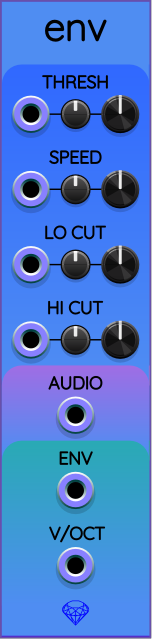
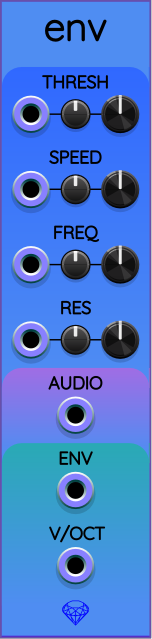
Env: Use cytomic bandpass as the pitch pre-filter.
Experimenting, I found that Gravy made a good pre-filter
for Env's pitch detector. So instead of using the simple
lo/hi-cut pair of filters for bandpass, use the same Cytomic
filter as I use in Gravy. Use bandpass mode for now, and
expose FREQ and RES control groups just like Gravy does.
FREQ helps center on the expected detected pitches, and
RES helps squeeze the frequency response near that center
frequency.

diff --git a/src/env_pitch_detect.hpp b/src/env_pitch_detect.hpp
@@ -3,12 +3,11 @@
 #include <cmath>
 #include <vector>
 #include "sapphire_engine.hpp"
+#include "sauce_engine.hpp"
 
 namespace Sapphire
 {
     const int NO_PITCH_VOLTS = -10;    // V/OCT = -10V indicates no pitch detected at all
-    const float EnvCutFreqMin = 15;
-    const float EnvCutFreqMax = 25000;
 
     template <typename value_t>
     struct EnvPitchChannelInfo
@@ -21,9 +20,8 @@ namespace Sapphire
         value_t filteredWaveLength;
         bool first_thresh;
 
-        using filter_t = StagedFilter<value_t, 1>;
-        filter_t loCutFilter;
-        filter_t hiCutFilter;
+        using filter_t = Gravy::SingleChannelGravyEngine<value_t>;
+        filter_t pitchFilter;
 
         value_t envAttack = 0;
         value_t envDecay = 0;
@@ -44,21 +42,8 @@ namespace Sapphire
             rawWaveLengthDescend = 0;
             filteredWaveLength = 0;
             first_thresh = true;
-
-            // Reset all filters in case they went non-finite.
-            loCutFilter.Reset();
-            hiCutFilter.Reset();
-
+            pitchFilter.initialize();
             envelope = 0;
-        }
-
-        value_t bandpass(value_t input, value_t loFreq, value_t hiFreq, int sampleRateHz)
-        {
-            loCutFilter.SetCutoffFrequency(loFreq);
-            value_t locut = loCutFilter.UpdateHiPass(input, sampleRateHz);
-
-            hiCutFilter.SetCutoffFrequency(hiFreq);
-            return hiCutFilter.UpdateLoPass(locut, sampleRateHz);
         }
 
         value_t pitch(int sampleRateHz, value_t centerFrequencyHz) const
@@ -99,8 +84,6 @@ namespace Sapphire
 
         int currentSampleRate = 0;
         value_t centerFrequencyHz = 261.6255653005986;        // note C4 = 440 / (2**(3/4))
-        value_t loCutFrequency = EnvCutFreqMin;
-        value_t hiCutFrequency = EnvCutFreqMax;
         int recoveryCountdown = 0;         // how many samples remain before trying to filter again (CPU usage limiter)
         const int smallestWavelength = 16;
         value_t thresh = 0;     // amplitude to reach before considering pitch to be significant
@@ -148,9 +131,8 @@ namespace Sapphire
 
             outEnvelope = q.updateAmplitude(input, currentSampleRate);
 
-            // Feed through a bandpass filter that rejects DC and other frequencies below 20 Hz,
-            // and also rejects very high frequencies.
-            value_t signal = q.bandpass(input, loCutFrequency, hiCutFrequency, currentSampleRate);
+            FilterResult<float> result = q.pitchFilter.process(currentSampleRate, input);
+            value_t signal = result.bandpass;
 
             // Make sure we have a normal numeric value for our signal.
             if (!std::isfinite(signal))
@@ -225,14 +207,16 @@ namespace Sapphire
             speed = 0.9999 - (qs*0.0999 / 128);
         }
 
-        void setLoCut(value_t loCutHz)
+        void setFrequency(value_t knob = 0)
         {
-            loCutFrequency = std::clamp(loCutHz, static_cast<value_t>(EnvCutFreqMin), static_cast<value_t>(EnvCutFreqMax));
+            for (info_t& q : info)
+                q.pitchFilter.setFrequency(knob);
         }
 
-        void setHiCut(value_t hiCutHz)
+        void setResonance(value_t knob = 0)
         {
-            hiCutFrequency = std::clamp(hiCutHz, static_cast<value_t>(EnvCutFreqMin), static_cast<value_t>(EnvCutFreqMax));
+            for (info_t& q : info)
+                q.pitchFilter.setResonance(knob);
         }
 
         int process(

diff --git a/src/env_vcv.cpp b/src/env_vcv.cpp
@@ -16,10 +16,10 @@ namespace Sapphire
             THRESHOLD_ATTEN,
             SPEED_PARAM,
             SPEED_ATTEN,
-            LOCUT_PARAM,
-            LOCUT_ATTEN,
-            HICUT_PARAM,
-            HICUT_ATTEN,
+            FREQ_PARAM,
+            FREQ_ATTEN,
+            RES_PARAM,
+            RES_ATTEN,
             PARAMS_LEN
         };
 
@@ -28,8 +28,8 @@ namespace Sapphire
             AUDIO_INPUT,
             THRESHOLD_CV_INPUT,
             SPEED_CV_INPUT,
-            LOCUT_CV_INPUT,
-            HICUT_CV_INPUT,
+            FREQ_CV_INPUT,
+            RES_CV_INPUT,
             INPUTS_LEN
         };
 
@@ -57,8 +57,8 @@ namespace Sapphire
                 config(PARAMS_LEN, INPUTS_LEN, OUTPUTS_LEN, LIGHTS_LEN);
                 configControlGroup("Threshold", THRESHOLD_PARAM, THRESHOLD_ATTEN, THRESHOLD_CV_INPUT, -96, 0, -24, " dB");
                 configControlGroup("Speed", SPEED_PARAM, SPEED_ATTEN, SPEED_CV_INPUT, 0, 1, 0.5);
-                configControlGroup("Lo Cut", LOCUT_PARAM, LOCUT_ATTEN, LOCUT_CV_INPUT, EnvCutFreqMin, EnvCutFreqMax, EnvCutFreqMin);
-                configControlGroup("Hi Cut", HICUT_PARAM, HICUT_ATTEN, HICUT_CV_INPUT, EnvCutFreqMin, EnvCutFreqMax, EnvCutFreqMax);
+                configControlGroup("Frequency", FREQ_PARAM,  FREQ_ATTEN,  FREQ_CV_INPUT,  -Gravy::OctaveRange, +Gravy::OctaveRange, Gravy::DefaultFrequencyKnob);
+                configControlGroup("Resonance", RES_PARAM,   RES_ATTEN,   RES_CV_INPUT,   0, 1, Gravy::DefaultResonanceKnob);
                 configInput(AUDIO_INPUT, "Audio");
                 configOutput(ENVELOPE_OUTPUT, "Envelope");
                 configOutput(PITCH_OUTPUT, "Pitch V/OCT");
@@ -100,11 +100,11 @@ namespace Sapphire
                     float speed = getControlValue(SPEED_PARAM, SPEED_ATTEN, SPEED_CV_INPUT, 0, 1);
                     detector.setSpeed(speed);
 
-                    float locut = getControlValue(LOCUT_PARAM, LOCUT_ATTEN, LOCUT_CV_INPUT, EnvCutFreqMin, EnvCutFreqMax);
-                    detector.setLoCut(locut);
+                    float freq = getControlValueVoltPerOctave(FREQ_PARAM, FREQ_ATTEN, FREQ_CV_INPUT, -Gravy::OctaveRange, +Gravy::OctaveRange);
+                    detector.setFrequency(freq);
 
-                    float hicut = getControlValue(HICUT_PARAM, HICUT_ATTEN, HICUT_CV_INPUT, EnvCutFreqMin, EnvCutFreqMax);
-                    detector.setHiCut(hicut);
+                    float res = getControlValue(RES_PARAM, RES_ATTEN, RES_CV_INPUT, 0, 1);
+                    detector.setResonance(res);
 
                     detector.process(nc, args.sampleRate, inFrame, outEnvelope, outPitchVoct);
 
@@ -135,8 +135,8 @@ namespace Sapphire
                 addSapphireOutput(PITCH_OUTPUT, "pitch_output");
                 addSapphireFlatControlGroup("thresh", THRESHOLD_PARAM, THRESHOLD_ATTEN, THRESHOLD_CV_INPUT);
                 addSapphireFlatControlGroup("speed", SPEED_PARAM, SPEED_ATTEN, SPEED_CV_INPUT);
-                addSapphireFlatControlGroup("locut", LOCUT_PARAM, LOCUT_ATTEN, LOCUT_CV_INPUT);
-                addSapphireFlatControlGroup("hicut", HICUT_PARAM, HICUT_ATTEN, HICUT_CV_INPUT);
+                addSapphireFlatControlGroup("frequency", FREQ_PARAM, FREQ_ATTEN, FREQ_CV_INPUT);
+                addSapphireFlatControlGroup("resonance", RES_PARAM, RES_ATTEN, RES_CV_INPUT);
             }
         };
     }

diff --git a/src/sauce_engine.hpp b/src/sauce_engine.hpp
@@ -5,17 +5,18 @@ namespace Sapphire
 {
     namespace Gravy
     {
+        template <typename value_t>
         class SingleChannelGravyEngine
         {
         private:
-            float freqKnob  = DefaultFrequencyKnob;
-            float resKnob   = DefaultResonanceKnob;
-            float mixKnob   = DefaultMixKnob;
-            float gainKnob  = DefaultGainKnob;
+            value_t freqKnob  = DefaultFrequencyKnob;
+            value_t resKnob   = DefaultResonanceKnob;
+            value_t mixKnob   = DefaultMixKnob;
+            value_t gainKnob  = DefaultGainKnob;
 
-            StateVariableFilter<float> filter;
+            StateVariableFilter<value_t> filter;
 
-            float setKnob(float &v, float k, int lo = 0, int hi = 1)
+            float setKnob(value_t &v, value_t k, int lo = 0, int hi = 1)
             {
                 if (std::isfinite(k))
                 {
@@ -35,33 +36,33 @@ namespace Sapphire
                 filter.initialize();
             }
 
-            float setFrequency(float k)
+            value_t setFrequency(value_t k)
             {
                 return setKnob(freqKnob, k, -OctaveRange, +OctaveRange);
             }
 
-            float setResonance(float k)
+            value_t setResonance(value_t k)
             {
                 return setKnob(resKnob, k);
             }
 
-            float setMix(float k)
+            value_t setMix(value_t k)
             {
                 return setKnob(mixKnob, k);
             }
 
-            float setGain(float k)
+            value_t setGain(value_t k)
             {
                 return setKnob(gainKnob, k);
             }
 
-            FilterResult<float> process(float sampleRateHz, const float inSample)
+            FilterResult<value_t> process(value_t sampleRateHz, const value_t inSample)
             {
-                float cornerFreqHz = std::pow(2.0f, freqKnob) * DefaultFrequencyHz;
-                float gain  = Cube(gainKnob * 2);    // 0.5, the default value, should have unity gain.
-                float mix = 1-Cube(1-mixKnob);
+                value_t cornerFreqHz = std::pow(static_cast<value_t>(2), freqKnob) * DefaultFrequencyHz;
+                value_t gain  = Cube(gainKnob * 2);    // 0.5, the default value, should have unity gain.
+                value_t mix = 1-Cube(1-mixKnob);
 
-                FilterResult<float> result = filter.process(sampleRateHz, cornerFreqHz, resKnob, inSample);
+                FilterResult<value_t> result = filter.process(sampleRateHz, cornerFreqHz, resKnob, inSample);
                 result.lowpass  = gain * (mix*result.lowpass  + (1-mix)*inSample);
                 result.bandpass = gain * (mix*result.bandpass + (1-mix)*inSample);
                 result.highpass = gain * (mix*result.highpass + (1-mix)*inSample);

diff --git a/util/make_sapphire_svg.py b/util/make_sapphire_svg.py
@@ -1871,8 +1871,8 @@ def GenerateEnvPitchPanel(cdict:Dict[str, ControlLayer], target:Target) -> int:
     yFence = FencePost(23.0, 114.0, 7)
     yThresh      = yFence.value(0)
     ySpeed       = yFence.value(1)
-    yLoCut       = yFence.value(2)
-    yHiCut       = yFence.value(3)
+    yFreq        = yFence.value(2)
+    yRes         = yFence.value(3)
     yPolyAudioIn = yFence.value(4)
     yEnvelopeOut = yFence.value(5)
     yPitchOut    = yFence.value(6)
@@ -1883,11 +1883,11 @@ def GenerateEnvPitchPanel(cdict:Dict[str, ControlLayer], target:Target) -> int:
     with Font(SAPPHIRE_FONT_FILENAME) as font:
         pl.append(BorderRect(PANEL_WIDTH, SAPPHIRE_PANEL_COLOR, SAPPHIRE_BORDER_COLOR))
 
-        defs.append(Gradient(yThresh-artSpaceAboveKnob, yHiCut+artSpaceBelowKnob, SAPPHIRE_AZURE_COLOR, SAPPHIRE_PANEL_COLOR, 'gradient_blue'))
+        defs.append(Gradient(yThresh-artSpaceAboveKnob, yRes+artSpaceBelowKnob, SAPPHIRE_AZURE_COLOR, SAPPHIRE_PANEL_COLOR, 'gradient_blue'))
         defs.append(Gradient(yPolyAudioIn-artSpaceAboveKnob, yPolyAudioIn+artSpaceBelowKnob, SAPPHIRE_MAGENTA_COLOR, SAPPHIRE_PANEL_COLOR, 'gradient_purple'))
         defs.append(Gradient(yEnvelopeOut-artSpaceAboveKnob, yPitchOut+artSpaceBelowKnob, SAPPHIRE_TEAL_COLOR, SAPPHIRE_PANEL_COLOR, 'gradient_out'))
 
-        pl.append(ControlGroupArt(name, 'control_art', panel, yThresh-artSpaceAboveKnob, yHiCut+artSpaceBelowKnob, 'gradient_blue'))
+        pl.append(ControlGroupArt(name, 'control_art', panel, yThresh-artSpaceAboveKnob, yRes+artSpaceBelowKnob, 'gradient_blue'))
         pl.append(ControlGroupArt(name, 'audio_art', panel, yPolyAudioIn-artSpaceAboveKnob, yPolyAudioIn+artSpaceBelowKnob, 'gradient_purple'))
         pl.append(ControlGroupArt(name, 'out_art', panel, yEnvelopeOut-artSpaceAboveKnob, yPitchOut+artSpaceBelowKnob, 'gradient_out'))
 
@@ -1909,11 +1909,11 @@ def GenerateEnvPitchPanel(cdict:Dict[str, ControlLayer], target:Target) -> int:
         AddFlatControlGroup(pl, controls, xmid, ySpeed, 'speed')
         pl.append(CenteredControlTextPath(font, 'SPEED', xmid, ySpeed - dyText))
 
-        AddFlatControlGroup(pl, controls, xmid, yLoCut, 'locut')
-        pl.append(CenteredControlTextPath(font, 'LO CUT', xmid, yLoCut - dyText))
+        AddFlatControlGroup(pl, controls, xmid, yFreq, 'frequency')
+        pl.append(CenteredControlTextPath(font, 'FREQ', xmid, yFreq - dyText))
 
-        AddFlatControlGroup(pl, controls, xmid, yHiCut, 'hicut')
-        pl.append(CenteredControlTextPath(font, 'HI CUT', xmid, yHiCut - dyText))
+        AddFlatControlGroup(pl, controls, xmid, yRes, 'resonance')
+        pl.append(CenteredControlTextPath(font, 'RES', xmid, yRes - dyText))
     return Save(panel, svgFileName)
 
 

diff --git a/src/sapphire_panel.cpp b/src/sapphire_panel.cpp
@@ -73,13 +73,13 @@ namespace Sapphire
             {"_panel",                 {  30.480,  128.500}},
             {"audio_input",            {  15.240,   83.667}},
             {"envelope_output",        {  15.240,   98.833}},
-            {"hicut_atten",            {  15.240,   68.500}},
-            {"hicut_cv",               {   6.240,   68.500}},
-            {"hicut_knob",             {  24.240,   68.500}},
-            {"locut_atten",            {  15.240,   53.333}},
-            {"locut_cv",               {   6.240,   53.333}},
-            {"locut_knob",             {  24.240,   53.333}},
+            {"frequency_atten",        {  15.240,   53.333}},
+            {"frequency_cv",           {   6.240,   53.333}},
+            {"frequency_knob",         {  24.240,   53.333}},
             {"pitch_output",           {  15.240,  114.000}},
+            {"resonance_atten",        {  15.240,   68.500}},
+            {"resonance_cv",           {   6.240,   68.500}},
+            {"resonance_knob",         {  24.240,   68.500}},
             {"speed_atten",            {  15.240,   38.167}},
             {"speed_cv",               {   6.240,   38.167}},
             {"speed_knob",             {  24.240,   38.167}},

diff --git a/src/gravy_engine.hpp b/src/gravy_engine.hpp
@@ -8,7 +8,7 @@ namespace Sapphire
     namespace Gravy
     {
         const int OctaveRange = 5;                              // +/- octave range around default frequency
-        const float DefaultFrequencyHz = 523.2511306011972;     // C5 = 440*(2**0.25)
+        const double DefaultFrequencyHz = 523.2511306011972;     // C5 = 440*(2**0.25)
         const int FrequencyFactor = 1 << OctaveRange;
 
         const float DefaultFrequencyKnob = 0.0;

diff --git a/src/sauce_vcv.cpp b/src/sauce_vcv.cpp
@@ -50,7 +50,7 @@ namespace Sapphire
 
         struct SauceModule : SapphireModule
         {
-            Gravy::SingleChannelGravyEngine engine[PORT_MAX_CHANNELS];
+            Gravy::SingleChannelGravyEngine<float> engine[PORT_MAX_CHANNELS];
             AgcLevelQuantity *agcLevelQuantity{};
             AutomaticGainLimiter agcLow;
             AutomaticGainLimiter agcBand;
